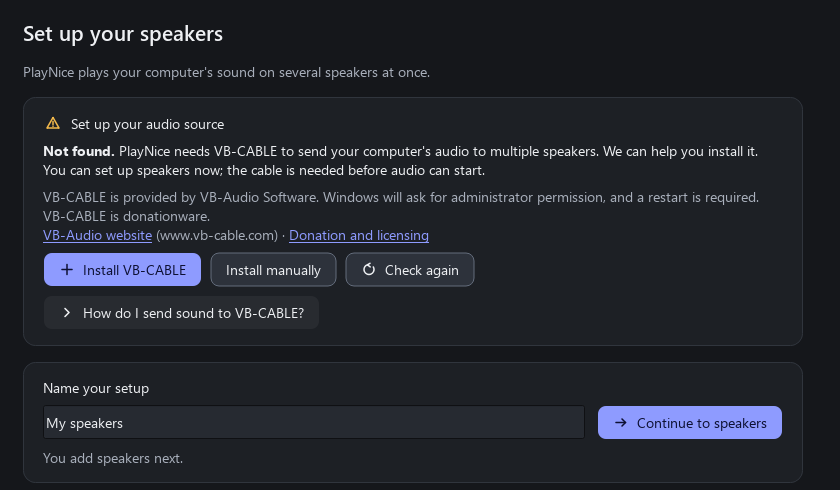
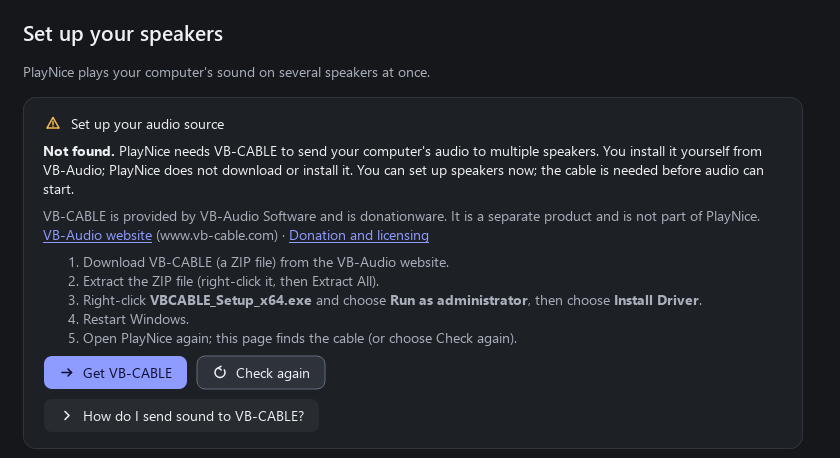
docs: update the guides, notices, security policy and screenshot for 0.1.0
VB-CABLE is described as a separate product that the person installs from VB-Audio (PlayNice and its installer carry, download, install and remove nothing of it). 0.1.0 is the supported version. Beta-specific wording is removed, the Smart App Control section no longer suggests turning protection off, and the first-run screenshot shows the current page.

Claude-Session: https://claude.ai/code/session_012qkpaMRa84RjzP27ebvR6m

diff --git a/docs/installation.md b/docs/installation.md
@@ -2,19 +2,18 @@
 
 PlayNice runs on 64-bit Windows 11. It installs no driver. For the whole path from download to sound, see [Getting started](getting-started.md).
 
-> **Status:** PlayNice is in early testing, and its test versions are marked Pre-release on the [Releases page](https://github.com/tensorsofthewall/playnice-windows/releases). The steps below describe the newest installer. Installation has not been tested on a clean computer or with several user accounts. This includes installing and removing VB-CABLE from PlayNice, choosing the installation folder and the optional removal of your data when uninstalling, which have been checked with automated tests only.
+> **Status:** the steps below describe the 0.1.0 installer. It was exercised in a test virtual machine with one administrator account (a new installation, an upgrade from 0.1.0-beta.2, choosing the folder, the optional removal of your data when uninstalling) and with automated checks. It has not been tested on other Windows builds or languages, with several user accounts, or with a different administrator approving the permission prompt.
 
 ## Before you start
 
 - **Microsoft Visual C++ Redistributable 2015-2022 (x64).** Most computers already have it. PlayNice's installer checks for it and warns you if it is missing. If PlayNice reports a missing `VCRUNTIME140` or `MSVCP140` file, install it from Microsoft: <https://aka.ms/vs/17/release/vc_redist.x64.exe>.
-- **VB-CABLE** (a separate product from VB-Audio Software, donationware) is needed to send the sound of Windows or of one program to PlayNice. PlayNice's installer carries VB-Audio's package but does **not** install it. On its first screen PlayNice offers **Install VB-CABLE**; only then does Windows ask for administrator permission, for VB-Audio's own installer. You can install PlayNice first. See [Getting started](getting-started.md#3-install-vb-cable-from-playnice).
+- **VB-CABLE** (a separate product from VB-Audio Software, donationware) is needed to send the sound of Windows or of one program to PlayNice. PlayNice's installer does **not** contain, download or install it, and neither does PlayNice. You get it yourself from VB-Audio (<https://vb-audio.com/Cable/>) and run VB-Audio's setup as administrator. You can install PlayNice first: on a new installation, Setup shows a page with these steps when no VB-CABLE is found, and PlayNice's first screen shows them again. See [Getting started](getting-started.md#3-get-vb-cable-from-vb-audio).
 
 ## Download
 
 Use the [Releases page](https://github.com/tensorsofthewall/playnice-windows/releases) of this repository only, and pick the release you want from the list.
 
-- While PlayNice is in beta its releases are marked **Pre-release**. GitHub's "latest release" link skips pre-releases, so this documentation links to the full list instead.
-- The installer is named `PlayNice-<version>-Setup-x64.exe`, where `<version>` is the release's version (for example `0.1.0-beta.2`).
+- The installer is named `PlayNice-<version>-Setup-x64.exe`, where `<version>` is the release's version (for example `0.1.0`).
 - A release has a `SHA256SUMS.txt` file and its page lists the installer's SHA-256 checksum.
 
 To check the file in PowerShell, replace the name with the file you downloaded:
@@ -27,12 +26,13 @@ Compare the result with the checksum on the release page. A matching checksum sh
 
 ## Install
 
-1. Run the installer. It shows a short beta notice first.
+1. Run the installer. It shows a short notice first (it says the installer is unsigned and that VB-CABLE is separate).
 2. Choose how to install:
    - **Install for all users (recommended).** The default. PlayNice goes into the standard **Program Files** folder (normally `C:\Program Files\PlayNice`) and Windows asks for administrator permission, as it does for most programs. Every account on the computer can then start PlayNice, and each account keeps its own setups and settings.
    - **Install for me only.** No administrator rights are needed. PlayNice goes into `%LOCALAPPDATA%\Programs\PlayNice`, and only your account can use it.
 3. On a new installation Setup shows the **destination folder** with a **Browse** button. Keep the suggested folder, or choose another one (a folder with spaces in its name, a non-English name, or one on another drive is fine). Setup refuses a folder that is a drive's root, a Windows or system folder, inside another program's folder, a junction or link, or that already holds other files, and it tells you why.
-4. Leave **Start PlayNice** ticked to open it when Setup finishes, or untick it.
+4. If VB-CABLE was not found, Setup shows a page named **Virtual audio cable** after the folder page, and repeats its steps on the last page, with an unticked option to open VB-Audio's download page. Setup itself installs nothing of VB-Audio's and opens that page only if you tick the option.
+5. Leave **Start PlayNice** ticked to open it when Setup finishes, or untick it.
 
 **Choosing a folder for all users.** Programs for all users should not be changeable by ordinary accounts, so Setup protects the PlayNice folder: administrators can change it, everyone else can only read and run it. Setup changes the permissions of that one folder only, never of the folder above it, and refuses a location where it cannot make that safe (for example a folder that an ordinary account owns, or a new folder inside a location that ordinary accounts may rearrange). If you want such a location, choose **Program Files**, pick a parent folder that only administrators can change, or install for yourself only.
 
@@ -59,16 +59,17 @@ PlayNice is currently **unsigned**. Smart App Control (SAC) is a Windows 11 feat
 
 To see whether SAC is on, open **Windows Security > App & browser control > Smart App Control settings**.
 
-If SAC blocks PlayNice, you can wait for a signed release or, if you choose, turn SAC **Off** there. That is your decision. It turns SAC off for the whole computer and every app, not just PlayNice, and it does not change Microsoft Defender. Do not turn off Defender or add exclusions.
+If SAC blocks PlayNice, the safe choice is to wait for a signed release. **PlayNice does not recommend turning Smart App Control off**, and neither PlayNice nor its installer changes it for you. Because SAC has no exception for a single app, running an unsigned program under it would mean turning SAC off for the whole computer and every app, which is a decision about your own computer that only you can make. It does not change Microsoft Defender. Do not turn off Defender or add exclusions.
 
-- Microsoft says recent Windows updates let you turn SAC back on later without reinstalling Windows, so keep Windows 11 (25H2 or 26H2) fully updated. On other configurations, for example a managed computer, Windows in S mode, or a build without those updates, turning it back on may need a reset or reinstall of Windows. Microsoft's [FAQ](https://support.microsoft.com/en-us/windows/security/threat-malware-protection/smart-app-control-frequently-asked-questions) does not list every case, so read it before you switch SAC off.
+- If you ever turn SAC off, for your own reasons, note that Microsoft says recent Windows updates let you turn SAC back on later without reinstalling Windows, so keep Windows 11 (25H2 or 26H2) fully updated. On other configurations, for example a managed computer, Windows in S mode, or a build without those updates, turning it back on may need a reset or reinstall of Windows. Microsoft's [FAQ](https://support.microsoft.com/en-us/windows/security/threat-malware-protection/smart-app-control-frequently-asked-questions) does not list every case, so read it before you switch SAC off.
 - If the **On** switch is grayed out, install the latest Windows Update first. Microsoft's [October 2026 update note (KB5127648)](https://support.microsoft.com/en-au/servicing/os/windows-11/2026/10/kb5127648-windows-11-24h2-25h2-26h2-security-update) says this was fixed for Windows 11 25H2 and 26H2 by updates released on or after 27 October 2026, and describes a workaround for other cases.
 
 ## Upgrade
 
 Run the newer installer. PlayNice keeps its identity, so it replaces the installed copy **in place** and keeps your setups and settings.
 
-- An existing installation keeps its own way of being installed and its own folder. A copy installed for one account **stays** installed for that account (for example a v0.1.0-beta.1 installed for you only is upgraded in place and is not moved to Program Files), and a custom folder is kept. Setup does not ask again.
+- An existing installation keeps its own way of being installed and its own folder. A copy installed for one account **stays** installed for that account (for example a 0.1.0-beta.2 installed for you only is upgraded in place and is not moved to Program Files), and a custom folder is kept. Setup does not ask again.
+- Installing 0.1.0 over 0.1.0-beta.2 keeps your setups, settings and start-at-sign-in choice, and removes the two VB-Audio files that earlier installers carried (the driver ZIP and its readme). If you had installed VB-CABLE, it stays.
 - Close the PlayNice window first, including its tray icon (the tray menu's **Quit PlayNice**). Setup asks you to if it is open.
 - If PlayNice's controller or audio is still running, Setup says so and asks whether to stop it. Continuing **interrupts any sound that is playing**. Choosing not to continue cancels the installation and leaves audio alone.
 - **Changing between "for me only" and "for all users" is deliberate, not automatic.** A copy installed one way and a copy installed the other way are treated as different installations: Setup stops, explains, and never removes either by itself. Uninstall the old one first (choose **Keep my data** so your setups remain), then run the installer again and choose the other way. The new installation finds your setups again, because they are stored per account, not with the program.
@@ -78,12 +79,11 @@ Run the newer installer. PlayNice keeps its identity, so it replaces the install
 Open **Settings > Apps > Installed apps**, find **PlayNice** and choose **Uninstall**, or use **Uninstall PlayNice** in the Start menu (the same uninstaller). Setup asks you to close the PlayNice window first, and asks before it stops audio that is playing.
 
 - Uninstalling shuts down PlayNice's controller and removes PlayNice's sign-in startup entry.
-- After you confirm the uninstall, Setup asks up to two separate questions, and any combination is possible. **Both default to keeping everything.**
-  - **VB-CABLE** (only if it is installed): **Keep VB-CABLE** or **Remove VB-CABLE**. VB-CABLE is a separate driver that other programs may use; choose **Remove VB-CABLE** only if nothing else needs it. Removing it asks Windows for administrator permission, opens VB-Audio's own setup (choose **Remove Driver** there), and needs a restart. If removal fails or you decline, PlayNice is still uninstalled and VB-CABLE stays.
+- After you confirm the uninstall, Setup asks one question, which **defaults to keeping everything**. **VB-CABLE is never removed by PlayNice's uninstaller**: it is a separate driver that other programs may use. If it is installed, the last message says it was not touched and where VB-Audio describes how to remove it (<https://vb-audio.com/Cable/>).
   - **Remove your PlayNice data?** **Keep my data** or **Delete my PlayNice data**. Keep it if you may install PlayNice again: your saved setups and settings are then still there. Deleting removes the `PlayNice` folder under `%LOCALAPPDATA%` of **the Windows account you are signed in to**: your saved setups, settings and PlayNice's own logs and diagnostic files. It **cannot be undone** unless you have a backup, and Setup asks you to confirm. It does not touch diagnostic ZIPs you saved elsewhere, other Windows accounts' PlayNice data, or any older Audio Mux data.
 - Data is deleted only after PlayNice itself has been removed, and only if Setup can be sure whose data it is. If it cannot (for example a different administrator approved the permission prompt), your data is **kept** and Setup tells you so. If some of it cannot be deleted (a file in use), Setup says so and where the list is; it never claims more than it did.
 - For an installation for all users, the uninstall removes the program for everyone but deletes data only for the account that ran it. Other accounts keep their setups; each owner can delete their own `%LOCALAPPDATA%\PlayNice` folder (close PlayNice first).
-- A silent uninstall (`/SILENT` or `/VERYSILENT`) asks nothing and keeps both your data and VB-CABLE.
+- A silent uninstall (`/SILENT` or `/VERYSILENT`) asks nothing and keeps your data; VB-CABLE is not touched.
 - If you routed a program to **CABLE Input** in Windows, that routing is not undone. See [Windows audio is silent after I stop PlayNice](troubleshooting.md#windows-audio-is-silent-after-i-stop-playnice).
 
 ## If installation fails

diff --git a/docs/getting-started.md b/docs/getting-started.md
@@ -13,7 +13,7 @@ Browser  ->  CABLE Input  ->  PlayNice  ->  wired speaker
 (Windows plays here)         (picks the sound up)  ->  Bluetooth speaker
 ```
 
-- **VB-CABLE** is a virtual audio device made by a different company (VB-Audio Software) and is donationware. It is not part of PlayNice, and VB-Audio's own terms apply to it. PlayNice can start VB-Audio's installer for you (Step 3). It adds two entries to Windows: **CABLE Input** (an *output*, where programs play their sound) and **CABLE Output** (an *input*, which PlayNice does not use). A simple way to remember it: **sound goes into CABLE Input**.
+- **VB-CABLE** is a virtual audio device made by a different company (VB-Audio Software) and is donationware. It is not part of PlayNice, and VB-Audio's own terms apply to it. You install it yourself from VB-Audio (Step 3); PlayNice does not install it for you. It adds two entries to Windows: **CABLE Input** (an *output*, where programs play their sound) and **CABLE Output** (an *input*, which PlayNice does not use). A simple way to remember it: **sound goes into CABLE Input**.
 - Sound sent to CABLE Input is **not heard** by itself. You hear it only while PlayNice is playing it on your real speakers. That is why this guide has you start PlayNice *before* you send a program's sound to the cable.
 - PlayNice never changes your Windows default playback device, and never changes which device a program uses. You make that choice yourself, in Step 8, in the Windows Volume Mixer.
 
@@ -22,7 +22,7 @@ What you need: 64-bit Windows 11, a wired speaker (or headphones, or a monitor w
 ## 1. Install PlayNice
 
 1. Open the [Releases page](https://github.com/tensorsofthewall/playnice-windows/releases) of this repository.
-2. Download the installer, `PlayNice-<version>-Setup-x64.exe`, from the newest entry. Releases are marked **Pre-release** while PlayNice is in beta; that is expected. Earlier test versions stay available, but the first one cannot install VB-CABLE for you.
+2. Download the installer, `PlayNice-<version>-Setup-x64.exe`, from the newest entry. Earlier versions stay available, but use the newest.
 3. Check the file as described in [Installation](installation.md#download), then run it. Keep **Install for all users (recommended)** (it goes into Program Files and Windows asks for permission, as for most programs) or choose **Install for me only**, which needs no administrator rights. You can choose another folder on the next page. See [Installation](installation.md#install) for the details.
 4. Leave **Start PlayNice** ticked on the last page, or open PlayNice later from the Start menu.
 
@@ -32,30 +32,28 @@ If Windows shows a warning about the installer, read [Windows warnings](installa
 
 PlayNice starts its own background program, the **controller**, when you open it. The controller holds your setups and runs the audio. If it cannot start, the window says **The PlayNice controller is not running** and offers **Start controller**.
 
-## 3. Install VB-CABLE from PlayNice
+## 3. Get VB-CABLE from VB-Audio
 
 If PlayNice's first screen already says **Audio source ready**, or Windows already lists **CABLE Input**, skip to Step 5.
 
-1. The **Audio source** card says **Set up your audio source** when VB-CABLE is missing. Choose **Install VB-CABLE**. (To do it yourself, choose **Install manually** and see the alternative at the end of Step 4.)
-2. Windows asks for permission to run VB-Audio's setup program. Only that program gets administrator rights; PlayNice itself keeps running as you.
-3. VB-Audio's setup window opens. Choose **Install Driver** there and accept its prompts. Windows may ask whether to trust software from VB-Audio. Read the prompt; this installs a driver, and doing so is your decision.
-4. When VB-Audio's setup closes, PlayNice looks at what Windows now has and tells you the result. It does not take the setup's word for it.
+PlayNice does not install VB-CABLE. When it is missing, the **Audio source** card says **Set up your audio source**, says it was **Not found** and lists the steps; **Get VB-CABLE** opens VB-Audio's page in your browser. Setup showed the same steps on its **Virtual audio cable** page if the cable was missing when you installed PlayNice.
 
-About VB-CABLE: it is third-party **donationware** made by VB-Audio Software (<https://www.vb-cable.com>). It is independent of PlayNice and VB-Audio's own terms apply to it. If you find it useful, you can support VB-Audio on their [donation and licensing page](https://vb-audio.com/Services/licensing.htm). The PlayNice installer carries VB-Audio's package so no download is needed, and PlayNice starts it only when you choose **Install VB-CABLE**. VB-Audio's driver is signed by VB-Audio and Microsoft; that is separate from PlayNice's own installer, which is currently **not** signed.
+1. Open <https://vb-audio.com/Cable/> (use this address only) and download the driver pack ZIP.
+2. Extract it (Windows cannot run the installer from inside a ZIP).
+3. Right-click the **64-bit** setup program, `VBCABLE_Setup_x64.exe`, and choose **Run as administrator**. Windows asks for permission; only VB-Audio's setup gets administrator rights, and PlayNice keeps running as you.
+4. In VB-Audio's window choose **Install Driver** and accept its prompts. Windows may ask whether to trust software from VB-Audio. Read the prompt; this installs a driver, and doing so is your decision.
+5. Restart Windows (Step 4), then open PlayNice again.
 
-If you are told that permission was not given, or that the setup was closed, nothing was changed on your computer. Choose **Try again** or **Install manually**.
+About VB-CABLE: it is third-party **donationware** made by VB-Audio Software (<https://www.vb-cable.com>). It is independent of PlayNice and VB-Audio's own terms apply to it. If you find it useful, you can support VB-Audio on their [donation and licensing page](https://vb-audio.com/Services/licensing.htm). PlayNice does not include, download or run VB-Audio's installer. VB-Audio's driver is signed by VB-Audio and Microsoft; that is separate from PlayNice's own installer, which is currently **not** signed. If VB-Audio's setup fails, follow VB-Audio's instructions or contact VB-Audio; PlayNice cannot repair their installer.
 
-> *Installing VB-CABLE from PlayNice has been checked with automated tests. It has not been tested on a clean Windows computer, so treat it as untested on your own computer. No screenshot of VB-Audio's window is shown here.*
+> *These steps were followed by hand in a test virtual machine (the cable then reported as usable). PlayNice's own first screen has been checked with automated tests, and has not been tried on a clean computer that never had VB-CABLE. No screenshot of VB-Audio's window is shown here.*
 
 ## 4. Restart Windows
 
-VB-CABLE needs Windows to restart before it works. PlayNice then says **VB-CABLE installed** and **Restart Windows to finish setting up the audio driver.**
+VB-CABLE needs Windows to restart before it works. If PlayNice is open while a restart is still pending, it says **Restart Windows to finish VB-CABLE**. PlayNice has no restart button and never restarts Windows by itself.
 
-- Choose **Restart now** (Windows asks your other programs to save first), or **Restart later**. PlayNice never restarts Windows by itself.
-- Until Windows has restarted, you can keep naming your setup, but audio cannot start.
-- After the restart, open PlayNice again. If it still says **VB-CABLE installed** with a restart message, choose **Check again**.
-
-**Alternative: install VB-CABLE yourself.** Only if the steps above failed or you chose **Install manually**: open <https://vb-audio.com/Cable/> (use this address only), download the driver pack ZIP, extract it (Windows cannot run the installer from inside a ZIP), right-click the **64-bit** setup program (its name ends in `_x64`), choose **Run as administrator**, choose **Install Driver**, and restart Windows when asked. If it fails, follow VB-Audio's instructions or contact VB-Audio; PlayNice cannot repair their installer.
+- Restart Windows yourself (save your work first), then open PlayNice again.
+- If PlayNice still says the cable is waiting for a restart, choose **Check again**.
 
 ## 5. Check that Windows lists the cable
 
@@ -74,7 +72,7 @@ Then connect your speakers: plug in or switch on the wired speaker, and pair the
 
 A **setup** is a saved list of speakers that play together. You can have several, for example "Living room" and "Desk only".
 
-1. On PlayNice's first screen, check that the **Audio source** card says **Audio source ready** and **Ready: VB-CABLE "CABLE Input (VB-Audio Virtual Cable)"**. If it says **Set up your audio source**, install VB-CABLE (Steps 3 to 5) and choose **Check again**; you can still carry on, but audio will not start until the cable is found.
+1. On PlayNice's first screen, check that the **Audio source** card says **Audio source ready** and **Ready: VB-CABLE "CABLE Input (VB-Audio Virtual Cable)"**. If it says **Set up your audio source**, get VB-CABLE (Steps 3 to 5) and choose **Check again**; you can still carry on, but audio will not start until the cable is found.
 2. Under **Name your setup**, type a name, for example `Living room`, and choose **Continue to speakers**. Nothing is saved yet.
 3. Choose **Add a speaker**, select your **wired speaker** in the list of playback devices Windows has, and choose **OK**. PlayNice does not accept the cable itself as a speaker. A device listed as *unavailable* needs to be switched on or reconnected; use the refresh button in the list.
 4. **Test it.** Choose **Test** on the speaker's row. PlayNice plays a short, soft sound on that one speaker, so you can check it before anything else. It then says *Test sound sent to ... Did you hear it?*, a note that clears itself after about ten seconds (or with its X). That means **Windows accepted the sound; PlayNice cannot know whether you heard it**. If you heard nothing, see [No sound from one speaker](troubleshooting.md#no-sound-from-one-speaker). **Test** does not need the cable, and it never changes the speaker's Windows volume or mute: if the speaker is muted or at zero in Windows, PlayNice tells you instead. It is switched off while the playing setup uses that speaker.
@@ -85,11 +83,11 @@ A **setup** is a saved list of speakers that play together. You can have several
   <img src="../assets/screenshots/first-run-cable-found-light.png" alt="PlayNice first screen: the audio source is found and the setup is being named" width="640">
 </picture>
 
-If the cable is not found, the first screen instead says **Set up your audio source** and offers **Install VB-CABLE**, **Install manually** and **Check again**:
+If the cable is not found, the first screen instead says **Set up your audio source** and lists the steps and offers **Get VB-CABLE** and **Check again**:
 
 <picture>
   <source media="(prefers-color-scheme: dark)" srcset="../assets/screenshots/first-run-cable-missing-dark.png">
-  <img src="../assets/screenshots/first-run-cable-missing-light.png" alt="PlayNice first screen when VB-CABLE is not found, with the Install VB-CABLE, Install manually and Check again buttons" width="640">
+  <img src="../assets/screenshots/first-run-cable-missing-light.png" alt="PlayNice first screen when VB-CABLE is not found, with the steps to get it and the Get VB-CABLE and Check again buttons" width="640">
 </picture>
 
 <picture>
@@ -161,7 +159,7 @@ Open the **...** menu at the top right and choose **Settings…**. **Start PlayN
 
 You can undo the routing at any time. In **Settings > System > Sound > Volume mixer**, set the browser's **Output** back to **Default**, and in PlayNice choose **Stop audio** (or **Quit PlayNice**). If a program stays silent after you stop PlayNice, it is probably still pointed at CABLE Input. See [Windows audio is silent after I stop PlayNice](troubleshooting.md#windows-audio-is-silent-after-i-stop-playnice).
 
-VB-CABLE stays installed unless you remove it. PlayNice's uninstaller asks (see [Uninstall](installation.md#uninstall)); you can also use VB-Audio's own instructions.
+VB-CABLE stays installed unless you remove it. PlayNice's uninstaller never removes it (see [Uninstall](installation.md#uninstall)); VB-Audio's website describes how to remove it.
 
 ## Next steps
 

diff --git a/docs/troubleshooting.md b/docs/troubleshooting.md
@@ -2,7 +2,7 @@
 
 Most problems have more than one possible cause, so each section lists checks to go through in order. Stop when the problem is fixed. Names in **bold** are labels in PlayNice or Windows. If you are new to PlayNice, read [Getting started](getting-started.md) first; it explains CABLE Input, CABLE Output and the order of the steps.
 
-Jump to: [No sound from any speaker](#no-sound-from-any-speaker) · [No sound from one speaker](#no-sound-from-one-speaker) · [Test failed](#the-test-button-failed) · [Controller did not start](#the-controller-did-not-start) · [Did not resume](#playnice-did-not-resume-playing) · [Speaker reconnecting](#a-speaker-keeps-reconnecting-or-recovery-failed) · [Setup folder](#installation-to-another-folder-or-setup-refuses-the-folder) · [Uninstall](#uninstalling-data-or-vb-cable-was-not-removed) · [Program not in Volume mixer](#an-application-is-not-listed-in-the-volume-mixer) · [VB-CABLE not detected](#vb-cable-is-not-detected) · [Wrong cable entry](#the-wrong-vb-cable-entry-is-selected) · [Silent after stopping](#windows-audio-is-silent-after-i-stop-playnice) · [Bluetooth](#a-bluetooth-speaker-is-unavailable) · [Crackling](#dropouts-or-crackling) · [Not aligned](#speakers-are-not-aligned) · [Behind video](#audio-is-delayed-compared-with-the-video) · [Window missing](#the-window-is-missing-or-hidden-in-the-tray) · [Sign-in](#audio-or-the-window-does-not-start-at-sign-in) · [Export failure](#the-diagnostic-report-cannot-be-exported)
+Jump to: [No sound from any speaker](#no-sound-from-any-speaker) · [No sound from one speaker](#no-sound-from-one-speaker) · [Test failed](#the-test-button-failed) · [Controller did not start](#the-controller-did-not-start) · [Did not resume](#playnice-did-not-resume-playing) · [Speaker reconnecting](#a-speaker-keeps-reconnecting-or-recovery-failed) · [Setup folder](#installation-to-another-folder-or-setup-refuses-the-folder) · [Uninstall](#uninstalling-data-was-not-removed-or-vb-cable-is-still-there) · [Program not in Volume mixer](#an-application-is-not-listed-in-the-volume-mixer) · [VB-CABLE not detected](#vb-cable-is-not-detected) · [Wrong cable entry](#the-wrong-vb-cable-entry-is-selected) · [Silent after stopping](#windows-audio-is-silent-after-i-stop-playnice) · [Bluetooth](#a-bluetooth-speaker-is-unavailable) · [Crackling](#dropouts-or-crackling) · [Not aligned](#speakers-are-not-aligned) · [Behind video](#audio-is-delayed-compared-with-the-video) · [Window missing](#the-window-is-missing-or-hidden-in-the-tray) · [Sign-in](#audio-or-the-window-does-not-start-at-sign-in) · [Export failure](#the-diagnostic-report-cannot-be-exported)
 
 ## No sound from any speaker
 
@@ -92,10 +92,10 @@ If you cannot route one program, you can instead set **CABLE Input** as the Wind
 
 PlayNice detects a VB-CABLE playback device that Windows lists and that is switched on. Check, in order:
 
-1. **Is it installed?** In **Settings > System > Sound**, look for **CABLE Input (VB-Audio Virtual Cable)** under **Output**. If it is missing, choose **Install VB-CABLE** on PlayNice's first screen or in the **Audio source** card ([Getting started](getting-started.md#3-install-vb-cable-from-playnice)), or install it yourself from <https://vb-audio.com/Cable/>. If PlayNice says permission was not given or the setup was closed, nothing was changed: choose **Try again**. If it says VB-CABLE needs attention, it is installed but not working; follow the steps it shows. PlayNice does not start VB-Audio's installer again while VB-CABLE is already installed, because that installer would offer to remove it.
-2. **Did you restart Windows after installing?** VB-CABLE needs a restart. PlayNice says **Restart Windows to finish setting up the audio driver** and never restarts Windows by itself. Restart, open PlayNice, then choose **Check again**.
+1. **Is it installed?** In **Settings > System > Sound**, look for **CABLE Input (VB-Audio Virtual Cable)** under **Output**. If it is missing, install it yourself: choose **Get VB-CABLE** on PlayNice's first screen or in the **Audio source** card, or open <https://vb-audio.com/Cable/>, download the ZIP, extract it and run `VBCABLE_Setup_x64.exe` as administrator ([Getting started](getting-started.md#3-get-vb-cable-from-vb-audio)). PlayNice does not install it for you. If it says VB-CABLE needs attention, it is installed but not working; follow the steps it shows. Do not run VB-Audio's setup again while VB-CABLE works: that setup offers to remove it.
+2. **Did you restart Windows after installing?** VB-CABLE needs a restart. PlayNice says **Restart Windows to finish VB-CABLE** and never restarts Windows by itself. Restart Windows yourself, open PlayNice, then choose **Check again**.
 3. **Is it disabled?** In **Settings > System > Sound > More sound settings**, open the **Playback** tab, right-click an empty area, and tick **Show Disabled Devices**. If **CABLE Input** is disabled, right-click it and choose **Enable**.
-4. **Did you install the right one?** PlayNice starts the 64-bit setup program from VB-Audio's package. If you install by hand, use the 64-bit one (its name ends in `_x64`) as administrator.
+4. **Did you install the right one?** Use the 64-bit setup program from VB-Audio's ZIP (`VBCABLE_Setup_x64.exe`) and run it as administrator.
 5. **Choose Check again** on the first screen, or reopen the **Audio source** card with **Change…**. PlayNice reads the list of devices when you ask.
 6. **Does it show an error in Windows' Device Manager?** Under **Sound, video and game controllers**, a warning icon on the VB-Audio entry means the driver is not working. That is a VB-Audio installation problem; reinstall using VB-Audio's instructions or ask VB-Audio.
 
@@ -225,13 +225,13 @@ The report works while audio plays, and also while the controller is not running
 
 Setup suggests `C:\Program Files\PlayNice` for all users and `%LOCALAPPDATA%\Programs\PlayNice` for you only, and lets you choose another folder. It refuses, with a reason, a drive's root, a Windows or system folder, a folder inside another program's folder, a junction or link, and a folder that already holds other files. For an installation **for all users** it also refuses a folder that an ordinary account could replace (for example a new folder in a place every account may rearrange), because every account would run the program from it. Choose the suggested folder, a folder under a parent that only administrators can change, or **Install for me only**. PlayNice's setups and settings are never stored in the installation folder. An existing installation upgrades in place, in its own folder and for its own accounts, and Setup never moves it between "all users" and "me only"; if the other kind is present Setup stops and explains (see [Upgrade](installation.md#upgrade)).
 
-## Uninstalling: data or VB-CABLE was not removed
+## Uninstalling: data was not removed, or VB-CABLE is still there
 
-The uninstaller asks two separate questions, **Keep or Remove VB-CABLE** and **Keep my data or Delete my PlayNice data**; both default to keeping. A silent uninstall keeps both.
+The uninstaller asks one question, **Keep my data or Delete my PlayNice data**, which defaults to keeping. A silent uninstall keeps your data. The uninstaller never removes VB-CABLE.
 
 - **Your data is still there after choosing Delete.** Setup deletes data only for the Windows account that ran the uninstaller, only after PlayNice is removed, and only when it can be sure whose data it is. If it could not (for example a different administrator approved the permission prompt) it keeps your data and says so. Close PlayNice, then delete the `PlayNice` folder under `%LOCALAPPDATA%` (type `%LOCALAPPDATA%` in the Run box) yourself, while signed in to that account. Other accounts keep their own folders; each owner can delete theirs.
 - **"Some of your data could not be deleted."** A file was in use. Setup saved a list as `PlayNice-uninstall-leftovers.txt` in your Temp folder (type `%TEMP%` in the Run box). Close programs that use the files and delete the folder yourself.
-- **VB-CABLE is still installed.** Removal needs administrator permission and VB-Audio's own window (choose **Remove Driver**) and a restart. If you declined or closed it, PlayNice was still uninstalled and VB-CABLE stays; remove it with VB-Audio's own instructions (<https://vb-audio.com/Cable/>) when nothing else uses it.
+- **VB-CABLE is still installed.** That is by design: it is a separate driver that other programs may use. If nothing else uses it, remove it with VB-Audio's own instructions (<https://vb-audio.com/Cable/>; run their setup as administrator and choose **Remove Driver**), then restart Windows.
 - PlayNice's own diagnostic ZIPs that you saved elsewhere, and any older Audio Mux data folder, are never deleted by the uninstaller.
 
 ## Windows warns about the installer

diff --git a/docs/faq.md b/docs/faq.md
@@ -10,7 +10,7 @@ It plays your computer's sound, or the sound of one program, on several audio ou
 
 ## Why do I need VB-CABLE?
 
-Windows plays a program's sound on one device. PlayNice needs a virtual playback device, **CABLE Input**, to receive that sound before it sends it to your speakers. VB-CABLE is a separate donationware product from VB-Audio Software (<https://www.vb-cable.com>). The PlayNice installer carries VB-Audio's package, and PlayNice starts VB-Audio's installer when you choose **Install VB-CABLE**; you can also install it yourself from <https://vb-audio.com/Cable/>. VB-Audio's installer asks for administrator permission and Windows must restart afterwards. See [Getting started](getting-started.md#3-install-vb-cable-from-playnice).
+Windows plays a program's sound on one device. PlayNice needs a virtual playback device, **CABLE Input**, to receive that sound before it sends it to your speakers. VB-CABLE is a separate donationware product from VB-Audio Software (<https://www.vb-cable.com>). You install it yourself from <https://vb-audio.com/Cable/>: VB-Audio's installer asks for administrator permission and Windows must restart afterwards. See [Getting started](getting-started.md#3-get-vb-cable-from-vb-audio).
 
 ## Will speakers be perfectly in step?
 
@@ -30,7 +30,7 @@ No. PlayNice never changes your default playback device, and it never changes wh
 
 ## Does PlayNice include VB-CABLE, and does it install the driver by itself?
 
-The installer carries VB-Audio's unmodified package, but it installs **nothing** on its own. VB-Audio's installer runs only if you choose **Install VB-CABLE** in PlayNice, and Windows then asks for administrator permission and a restart. VB-CABLE stays a separate, third-party donationware product. See [Getting started](getting-started.md#3-install-vb-cable-from-playnice).
+No. Neither the installer nor PlayNice contains, downloads, installs or removes VB-CABLE or any other driver. You get it from VB-Audio yourself, and it stays a separate, third-party donationware product. PlayNice only checks that it is there and shows how to install it. See [Getting started](getting-started.md#3-get-vb-cable-from-vb-audio).
 
 ## Where is PlayNice installed, and can I choose the folder?
 
@@ -66,11 +66,11 @@ No. PlayNice is proprietary software. This repository is for downloads, document
 
 ## Does PlayNice need administrator rights?
 
-To **install** PlayNice for all users (the default) Windows asks for administrator permission, as for most programs; **Install for me only** needs none. PlayNice itself always runs as your ordinary account. VB-Audio's installer and removal tool ask for administrator permission too, but only after you choose **Install VB-CABLE** (or **Remove VB-CABLE** while uninstalling). The VB-Audio driver is signed by VB-Audio and Microsoft; that is separate from PlayNice's own installer, which is currently not signed.
+To **install** PlayNice for all users (the default) Windows asks for administrator permission, as for most programs; **Install for me only** needs none. PlayNice itself always runs as your ordinary account. VB-Audio's own installer asks for administrator permission too, when you run it yourself. The VB-Audio driver is signed by VB-Audio and Microsoft; that is separate from PlayNice's own installer, which is currently not signed.
 
 ## What does uninstalling PlayNice remove?
 
-The program. After you confirm the uninstall, Setup asks two separate questions, and both default to keeping: **Keep or Remove VB-CABLE** (other programs may use it; removal opens VB-Audio's own setup and needs a restart), and **Keep my data or Delete my PlayNice data**. Your saved setups and settings are kept unless you choose to delete them, and a silent uninstall keeps everything. Deleting data is permanent, applies only to the Windows account that ran the uninstaller, and never touches other accounts or files you saved elsewhere. See [Installation](installation.md#uninstall).
+The program. After you confirm the uninstall, Setup asks one question, which defaults to keeping: **Keep my data or Delete my PlayNice data**. VB-CABLE is never removed by the uninstaller (other programs may use it); VB-Audio's website describes how to remove it. Your saved setups and settings are kept unless you choose to delete them, and a silent uninstall keeps everything. Deleting data is permanent, applies only to the Windows account that ran the uninstaller, and never touches other accounts or files you saved elsewhere. See [Installation](installation.md#uninstall).
 
 ## Windows warns about the installer. What should I do?
 

diff --git a/README.md b/README.md
@@ -6,8 +6,9 @@
 
 <p align="center"><strong>Play audio through multiple speakers at once on Windows 11.</strong></p>
 
-> **Status:** PlayNice is in early testing. The newest version is on the [Releases page](https://github.com/tensorsofthewall/playnice-windows/releases)
-> (test versions are marked Pre-release). The installer is not signed.
+> **Status:** PlayNice 0.1.0 is the first release without a beta label; it is still a young program. The newest version is on the
+> [Releases page](https://github.com/tensorsofthewall/playnice-windows/releases). The installer is not signed, so Windows may warn about it
+> (see [Windows warnings](docs/installation.md#windows-warnings)).
 
 PlayNice sends the sound of your computer, or of one program, to several audio outputs at the same time: for
 example a monitor, a USB headset and a Bluetooth speaker.
@@ -23,7 +24,7 @@ example a monitor, a USB headset and a Bluetooth speaker.
 
 - Play audio on **several speakers together** (up to four).
 - Use **Bluetooth and wired** outputs in the same setup.
-- **Select an audio source**: the sound of Windows, or of one program, sent to a virtual cable. PlayNice can **install the VB-CABLE virtual cable** for you (with your approval) and shows guidance for the last step.
+- **Select an audio source**: the sound of Windows, or of one program, sent to a virtual cable. PlayNice checks that the **VB-CABLE** virtual cable, which you install yourself from VB-Audio, is there and working, and shows guidance for the last step.
 - Save **speaker setups** and switch between them.
 - Set **volume and mute** for each speaker. These change the speaker's volume in Windows.
 - **Test** each speaker with a short, soft sound before you rely on it, and get guided help when you **can't hear audio**.
@@ -42,7 +43,7 @@ example a monitor, a USB headset and a Bluetooth speaker.
 
 | | |
 | --- | --- |
-| **Download** | The newest installer on the [Releases page](https://github.com/tensorsofthewall/playnice-windows/releases) (test versions are marked Pre-release) |
+| **Download** | The newest installer on the [Releases page](https://github.com/tensorsofthewall/playnice-windows/releases) |
 | **Install** | [Installation](docs/installation.md). The normal new installation is for all users, in `C:\Program Files\PlayNice` (Windows asks for permission once); you can choose **Install for me only** or another folder. |
 | **First use** | [Getting started](docs/getting-started.md), a walkthrough for beginners |
 | **Every setting** | [Settings guide](docs/settings-guide.md) |
@@ -55,9 +56,10 @@ example a monitor, a USB headset and a Bluetooth speaker.
 
 To send the sound of Windows (or of one program) to PlayNice, you need a virtual audio device. PlayNice works with
 **VB-CABLE**, third-party donationware made by VB-Audio Software (<https://www.vb-cable.com>). It is separate from PlayNice and
-VB-Audio's own terms apply to it. If it is missing, PlayNice offers **Install VB-CABLE** on its first screen: you approve VB-Audio's own
-installer, restart Windows, and come back. You can also install it yourself from <https://vb-audio.com/Cable/>. When you uninstall PlayNice
-you can choose to remove VB-CABLE too, and separately to delete your PlayNice data; keeping both is the default. The [walkthrough](docs/getting-started.md) shows every step.
+VB-Audio's own terms apply to it. PlayNice does not include, download, install or remove it. You get it from VB-Audio: download it from
+<https://vb-audio.com/Cable/>, extract the ZIP file, run `VBCABLE_Setup_x64.exe` as administrator, restart Windows, then open PlayNice again.
+PlayNice shows these steps when the cable is missing, and checks that it works. When you uninstall PlayNice you can choose to delete your
+PlayNice data (keeping it is the default); VB-CABLE is never touched. The [walkthrough](docs/getting-started.md) shows every step.
 
 ## What to expect
 

diff --git a/THIRD-PARTY-NOTICES.md b/THIRD-PARTY-NOTICES.md
@@ -26,4 +26,4 @@ The Microsoft Visual C++ Redistributable (x64) is **not** included in the PlayNi
 
 VB-CABLE is a virtual audio device made by VB-Audio Software (Vincent Burel). Its origin is <https://www.vb-cable.com> (also <https://vb-audio.com/Cable/>). VB-CABLE is donationware: all participations are welcome, and you can support VB-Audio directly at <https://vb-audio.com/Services/licensing.htm>. It is independent of PlayNice and is not developed or owned by PlayNice; VB-Audio's own licence terms apply to it.
 
-The PlayNice installer carries VB-Audio's package `VBCABLE_Driver_Pack45.zip`, exactly as VB-Audio published it, together with VB-Audio's own readme and licence text (installed in the `licenses` folder). PlayNice starts VB-Audio's own setup program from it only when you choose **Install VB-CABLE**, or **Remove VB-CABLE** while uninstalling. This release relies on VB-Audio's **published distribution policy**: on its licensing page (<https://vb-audio.com/Services/licensing.htm>, "VB-CABLE Distribution with other product") VB-Audio says it allows distributing the VB-CABLE package with an application, free or commercial, and possibly embedding it in an installation package, if its donationware model is applicable. PlayNice does not claim an individual written authorisation from VB-Audio beyond that published policy. The package is not modified; installing and removing the driver are optional and happen only when you choose them, using VB-Audio's own setup program. The standard VB-CABLE only is included; VB-CABLE A+B, C+D, HiFi Cable and Voicemeeter are not. VB-CABLE and VB-Audio are the property of their owners.
+PlayNice does **not** include, download, install, start or remove VB-CABLE, and nothing of VB-Audio's is in the PlayNice installer or its `licenses` folder. You get VB-CABLE yourself from VB-Audio (<https://vb-audio.com/Cable/>) and VB-Audio's own terms apply to what you download. PlayNice and its installer only look at whether a VB-CABLE device is present and explain how to install it; the uninstaller never removes it. PlayNice is not made, endorsed or certified by VB-Audio. VB-CABLE and VB-Audio are the property of their owners.

diff --git a/docs/reporting-a-bug.md b/docs/reporting-a-bug.md
@@ -11,7 +11,7 @@ A clear report gets a problem fixed sooner. This page shows what to include.
 
 The issue forms ask for **PlayNice version** and **Windows version**. Both are required, because a problem often depends on the exact build.
 
-**If PlayNice opens:** open the **...** menu and choose **About PlayNice**. The version is on the second line (for example `0.1.0-beta.2`). **Copy details** puts it on the clipboard.
+**If PlayNice opens:** open the **...** menu and choose **About PlayNice**. The version is on the second line (for example `0.1.0`). **Copy details** puts it on the clipboard.
 
 **If PlayNice will not open**, use one of these instead:
 

diff --git a/SECURITY.md b/SECURITY.md
@@ -20,7 +20,12 @@ This is a small project run by one maintainer. There is no guaranteed response t
 
 ## Supported versions
 
-PlayNice v0.1.0-beta.2 is supported. Only the latest release is supported. PlayNice is in early testing, and fixes are published as new releases, not as patches to older ones.
+| Version | Supported |
+| --- | --- |
+| 0.1.0 | Yes |
+| 0.1.0-beta.2 and earlier betas | No: install 0.1.0 over them (your setups and settings are kept) |
+
+Only the latest release is supported. PlayNice is a young program, and fixes are published as new releases, not as patches to older ones.
 
 ## Not security reports
 
